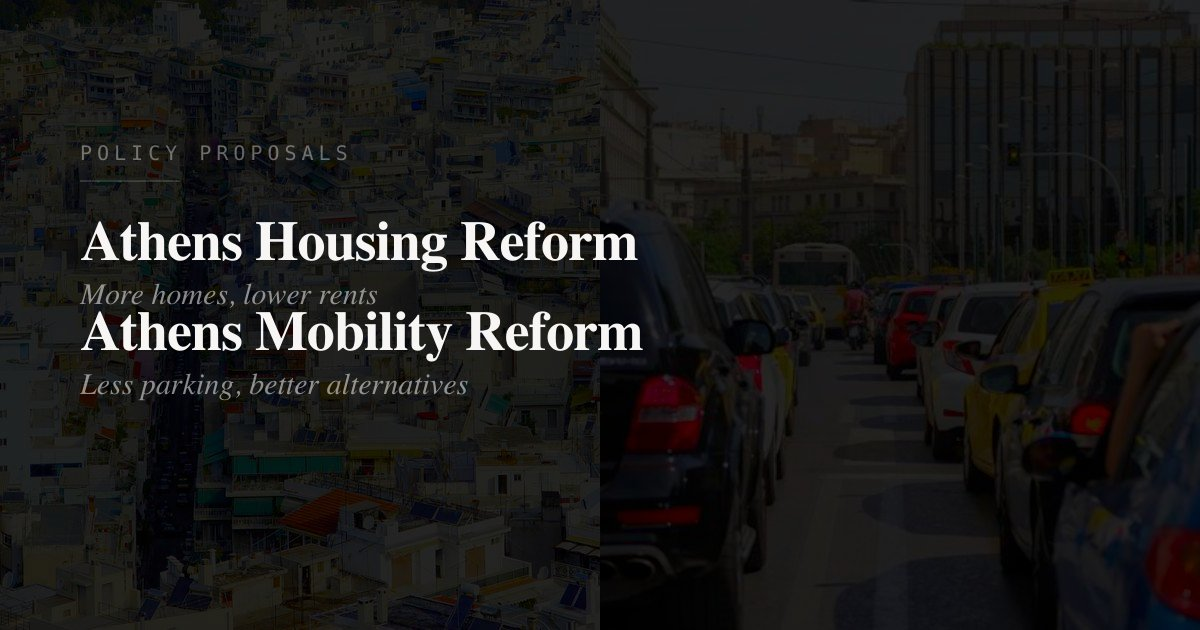
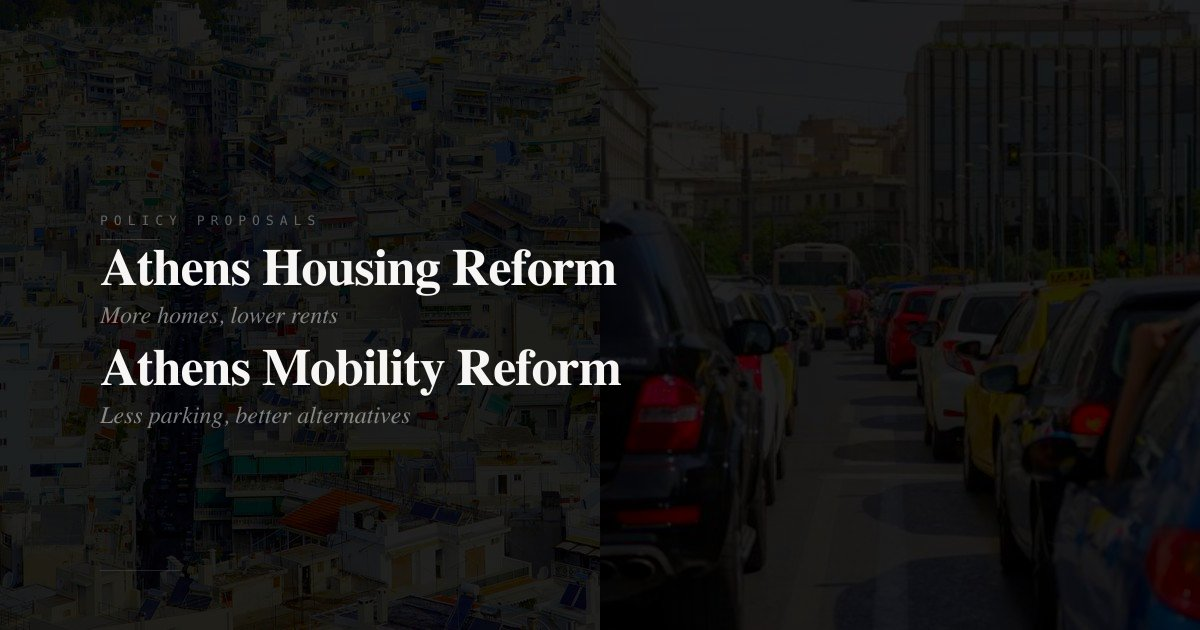
Improve OG index image layout, increase hero/card image opacity

diff --git a/src/components/policy-viewer.jsx b/src/components/policy-viewer.jsx
@@ -159,7 +159,7 @@ export const PolicyViewer = ({ policyEntry, onBack }) => {
             transition={{
               layout: { duration: 0.5, ease: [0.4, 0, 0.2, 1] },
             }}
-            style={{ position: 'absolute', inset: 0, backgroundImage: `url(${policy.meta.background_image})`, backgroundSize: 'cover', backgroundPosition: 'center', opacity: 0.08, pointerEvents: 'none' }}
+            style={{ position: 'absolute', inset: 0, backgroundImage: `url(${policy.meta.background_image})`, backgroundSize: 'cover', backgroundPosition: 'center', opacity: 0.18, pointerEvents: 'none' }}
           />
         )}
         <div style={{ position: 'absolute', inset: 0, backgroundImage: 'repeating-linear-gradient(0deg, transparent, transparent 39px, rgba(255,255,255,0.03) 39px, rgba(255,255,255,0.03) 40px)', pointerEvents: 'none' }} />

diff --git a/src/components/policy-index.jsx b/src/components/policy-index.jsx
@@ -66,7 +66,7 @@ const PolicyCard = ({ entry, index, onSelect }) => {
           style={{
             position: 'absolute', inset: 0,
             backgroundImage: `url(${bg})`, backgroundSize: 'cover', backgroundPosition: 'center',
-            opacity: hovered ? 0.12 : 0.08,
+            opacity: hovered ? 0.25 : 0.18,
             transform: hovered ? 'scale(1.05)' : 'scale(1)',
             transition: 'opacity 0.8s, transform 0.8s cubic-bezier(0.25, 0.1, 0.25, 1)',
           }}
